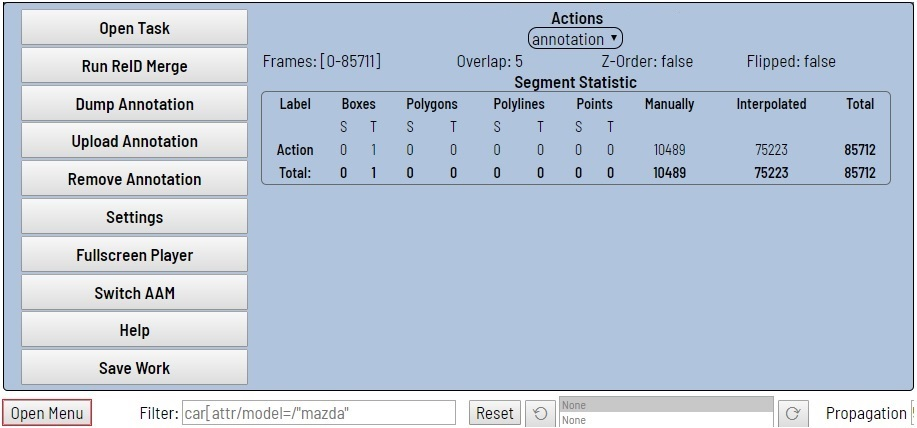
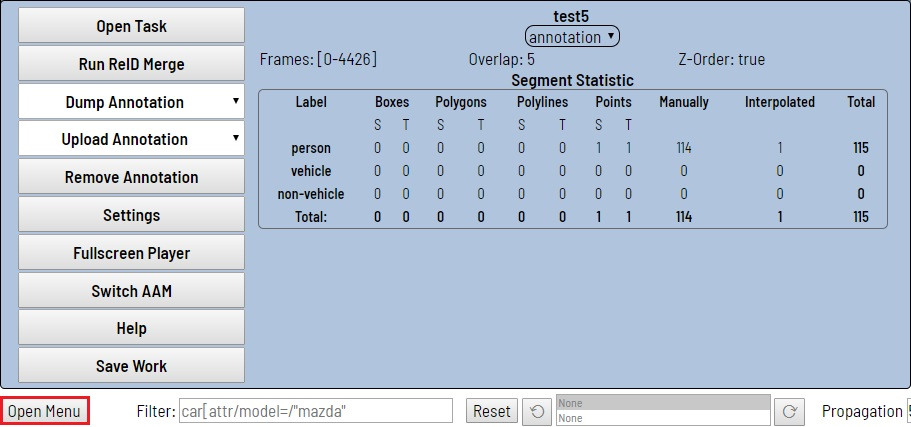
CVAT documentation v5 (#662)
* Updated images & gifs
* Updated User's Guide

diff --git a/cvat/apps/documentation/user_guide.md b/cvat/apps/documentation/user_guide.md
@@ -29,6 +29,7 @@
   - [Annotation with polylines](#annotation-with-polylines)
   - [Annotation with points](#annotation-with-points)
   - [Annotation with Auto Segmentation](#annotation-with-auto-segmentation)
+  - [Auto annotation](#auto-annotation)
   - [Shape grouping](#shape-grouping)
   - [Filter](#filter)
   - [Analytics](#analytics)
@@ -135,7 +136,9 @@ Go to the [Django administration panel](http://localhost:8080/admin). There you 
     **Use LFS**. If the annotation file is large, you can create a repository with
     [LFS](https://git-lfs.github.com/) support.
 
-    **Source**. To create huge tasks please use ``shared`` server directory (choose ``Share`` option in the dialog).
+    **Source**. Choose "Local" if you want to use files from your PC.
+    Choose the "Remote" option if you want to use a one url-adress or a list.
+    To create huge tasks please use shared server directory (choose "Share"). 
 
     **Z-Order**. Defines the order on drawn polygons. Check the box for enable layered displaying.
 
@@ -169,18 +172,36 @@ Go to the [Django administration panel](http://localhost:8080/admin). There you 
     The option helps to load high resolution datasets faster.
     Use the value from ``1`` (completely compressed images) to ``95`` (almost not compressed images).
 
-    **Select files**. Push this button to select files you want to annotate.
+    **Frame Filter**. Use this option to filter video frames.
+    For example, enter ``step=25`` to leave every twenty fifth frame in the video. Use this option on video files only.
+
+    **Select files or URL list**. If you select `` Remote`` in `` Source``, you'll see a field where you can enter
+    a list of URLs (one URL per line).
+    Press `` Local`` or `` Share`` in the `` source`` field to choose some files
+    for anotation from your local PC or a network folder respectively.
 
     Push ``Submit`` button and it will be added into the list of annotation tasks.
-    Then, the created task will be displayed on dashboard:
+    Then, the created task will be displayed on a dashboard:
 
-    ![](static/documentation/images/image006.jpg)
+    ![](static/documentation/images/image006_DETRAC.jpg)
 
 1.  The Dashboard contains elements and each of them relates to a separate task. They are sorted in creation order.
     Each element contains: task name, preview, execution status, buttons, and one or more links.
     Each button is responsible for a specific function:
-    - ``Dump Annotation`` — download an annotation file from the task (xml format)
-    - ``Upload Annotation`` — upload an annotation file to the task (xml format)
+    - ``Dump Annotation`` — download an annotation file from a task. Several formats are available:
+      - [CVAT XML 1.1 for video](/cvat/apps/documentation/xml_format.md#interpolation)
+      is highlighted if a task has the interpolation mode 
+      - [CVAT XML 1.1 for images](/cvat/apps/documentation/xml_format.md#annotation)
+      is highlighted if a task has the annotation mode 
+      - [PASCAL VOC ZIP 1.0](http://host.robots.ox.ac.uk/pascal/VOC/)
+      - [YOLO ZIP 1.0](https://pjreddie.com/darknet/yolo/)
+      - [COCO JSON 1.0](http://cocodataset.org/#format-data)
+      - ``MASK ZIP 1.0`` — archive contains a mask of each frame in the png format and a text file
+      with the value of each color
+      - [TFRecord ZIP 1.0](https://www.tensorflow.org/tutorials/load_data/tf_records)
+    - ``Upload annotation`` is possible in same format as ``Dump annotation``, with exception of ``MASK ZIP 1.0``
+      format and without choosing whether [CVAT XML 1.1](/cvat/apps/documentation/xml_format.md)
+      refers to an image or video.
     - ``Update Task`` — bring up "Update task" panel. It is used to edit or add labels line
     - ``Delete Task`` — delete the task
     - ``Git Repository Sync`` — sync annotation with the dataset repository.
@@ -216,15 +237,28 @@ You can "register" a model and "use" it after that to pre annotate your tasks.
 
 The model manager allows you to manage your deep learning (DL) models uploaded for auto annotation.
 Using the functionality you can upload, update or delete a specific DL model.
-Use "Auto annotation" button to pre annotate a task using one of your DL models. [Read more](/cvat/apps/auto_annotation)
+Use "Auto annotation" button to pre annotate a task using one of your DL models.
+[Read more](/cvat/apps/auto_annotation)
 
 ![](static/documentation/images/image104.jpg)
 
 ### Search
 
 There are several options how to use the search.
-It may be task's name, mode (annotation or interpolation), owner (username), assignee (username),
-status (annotation, validation, completed), id.
+
+- Search within all fields (owner, assignee, task name, task status, task mode).
+To execute enter a search string in search field.
+- Search for specific fields. How to perform:
+  - ``owner: admin`` - all tasks created by the user who has the substring "admin" in his name
+  - ``assignee: employee``  - all tasks which are assigned to a user who has the substring "employee" in his name
+  - ``name: mighty`` - all tasks with the substring "mighty" in their names
+  - ``mode: annotation`` or ``mode: interpolation`` - all tasks with images or videos.
+  - ``status: annotation`` or ``status: validation`` or ``status: completed``  - search by status
+  - ``id: 5`` - task with id = 5.
+- Multiple filters. Filters can be combined (except for the identifier) using the keyword `` AND``:
+  - ``mode: interpolation AND owner: admin``
+  - ``mode: annotation and status: annotation``
+
 The search is case insensitive.
 
 ![](static/documentation/images/image100.jpg)
@@ -274,7 +308,7 @@ And there is how they all look like:
 ![](static/documentation/images/image038.jpg "Box") ![](static/documentation/images/image033.jpg "Polygon")
 
 ![](static/documentation/images/image009.jpg "Polyline") ![](static/documentation/images/image010.jpg "Points")
-![](static/documentation/images/gif009.gif "Auto Segmentation")
+![](static/documentation/images/gif009_DETRAC.gif "Auto Segmentation")
 
 ### Annotation mode (basics)
 Usage examples:
@@ -324,7 +358,7 @@ Usage examples:
     - Annotate a bounding box on the first frame for the object.
     - In ``Interpolation`` mode the bounding box will be interpolated on next frames automatically.
 
-    ![](static/documentation/images/image015.jpg)
+    ![](static/documentation/images/image015_DETRAC.jpg)
 
 1.  If the object starts to change its position, you need to modify bounding
     boxes where it happens. It isn't necessary to change bounding boxes on each
@@ -337,7 +371,7 @@ Usage examples:
 
     -   Let's jump 30 frames forward and adjust boundaries of the object.
 
-        ![](static/documentation/images/image017.jpg)
+        ![](static/documentation/images/image017_DETRAC.jpg)
 
     -   After that, bounding boxes of the object between 630 and 660 frames
         will be changed automatically. For example, frame #645 looks like on the figure below:
@@ -403,18 +437,31 @@ Usage examples:
 ### Downloading annotations
 
 1.  To download the latest annotations, you have to save all changes first.
-    Press ``Open Menu`` and then ``Save Work`` button. There is ``Ctrl+S``
-    shortcut to save annotations quickly.
+    To do this, click ``Open Menu`` button. 
 
-1.  After that, press ``Open Menu`` and then ``Dump Annotation`` button.
+1.  After that, press ``Save Work`` button. There is ``Ctrl+S``
+    shortcut to save annotations quickly.
 
     ![](static/documentation/images/image028.jpg)
 
-1.  The annotation will be written into **.xml** file. To find the annotation
-    file, you should go to the directory where your browser saves downloaded
-    files by default. For more information visit [xml format page](/cvat/apps/documentation/xml_format.md).
+1.  After that, press ``Dump Annotation`` button.
 
-    ![](static/documentation/images/image029.jpg)
+    ![](static/documentation/images/image118.jpg)
+
+1.  Choose format dump annotation file. Dump annotation are available in several formats:
+    - [CVAT XML 1.1 for video](/cvat/apps/documentation/xml_format.md#interpolation)
+    is highlighted if a task has the interpolation mode
+    - [CVAT XML 1.1 for images](/cvat/apps/documentation/xml_format.md#annotation)
+    is highlighted if a task has the annotation mode
+
+    ![](static/documentation/images/image029.jpg "Example XML format") 
+
+    - [PASCAL VOC ZIP 1.0](http://host.robots.ox.ac.uk/pascal/VOC/)
+    - [YOLO ZIP 1.0](https://pjreddie.com/darknet/yolo/)
+    - [COCO JSON 1.0](http://cocodataset.org/#format-data)
+    - ``MASK ZIP 1.0`` — archive contains a mask of each frame in the png format and a text file with
+    the value of each color
+    - [TFRecord ZIP 1.0](https://www.tensorflow.org/tutorials/load_data/tf_records) 
 
 ### Task synchronization with a repository
 
@@ -900,6 +947,8 @@ automatically. You can adjust the polyline after it has been drawn.
 
 ## Annotation with points
 
+### Points in annotation mode
+
 It is used for face landmarks annotation etc.
 
 Before starting, you have to be sure that ``Points`` is selected.
@@ -920,6 +969,32 @@ You can add/delete points after finishing.
 
 ![](static/documentation/images/image063.jpg)
 
+### Linear interpolation with one point
+
+You can use linear interpolation for points to annotate a moving object:
+
+1.  Before starting, you have to be sure that ``Points`` is selected. 
+1.  Linear interpolation works only with one point, so you need to set ``Poly Shapes Size``: 1. 
+1.  After that select the interpolation mode.
+    
+    ![](static/documentation/images/image122.jpg)
+
+1.  Press ``N`` or click ``Create Shape`` for entering drawing mode.
+    Click LMB to create a point and shape will be automatically completed. 
+
+    ![](static/documentation/images/gif011_DETRAC.gif)
+
+1.  Move forward a few frames and move the point to the desired position,
+    this way you will create a keyframe and intermediate frames will be drawn automatically.
+    You can work with this object as with an interpolated track: hide with help of ``Outside``,
+    move around keyframes, etc.
+
+    ![](static/documentation/images/gif012_DETRAC.gif)
+
+1.  This way you'll get linear interpolation using `` Points``.
+
+    ![](static/documentation/images/gif013_DETRAC.gif)
+
 ## Annotation with Auto Segmentation
 
 Used to create a polygon semi-automatically. Before starting, you have to be
@@ -935,7 +1010,54 @@ in/out (when scrolling the mouse wheel) and move (when clicking the mouse
 wheel and moving the mouse) while drawing. At the end of Auto Segmentation,
 a shape is created and you can work with it as a polygon.
 
-![](static/documentation/images/gif009.gif)
+![](static/documentation/images/gif009_DETRAC.gif)
+
+## Auto annotation
+
+1.  First you need to upload deep learning (DL) models using model manager.
+    Only models in OpenVINO™ toolkit format are supported.
+    If you would like to annotate a task with a custom model please convert it
+    to the intermediate representation (IR) format via the model optimizer tool.
+    See [OpenVINO documentation](https://software.intel.com/en-us/articles/OpenVINO-InferEngine) for details.
+
+    ![](static/documentation/images/image099.jpg)
+
+1.  Enter model name, and select model file using "Select files" button. To annotate a task with a custom model
+    you need to prepare 4 files:
+    - ``Model config`` (*.xml) - a text file with network configuration. 
+    - ``Model weights`` (*.bin) - a binary file with trained weights. 
+    - ``Label map`` (*.json) - a simple json file with label_map dictionary like an object with 
+    string values for label numbers.
+    - ``Interpretation script`` (*.py) - a file used to convert net output layer to a predefined structure 
+    which can be processed by CVAT. 
+    More about creating model files can be found [here](/cvat/apps/auto_annotation).
+
+    ![](static/documentation/images/image104.jpg)
+
+1.  After downloading a model you have to  create a task or find an already created one and
+    click ``Run Auto Annotation`` button.
+
+    ![](static/documentation/images/image119.jpg)
+
+1.  In dialog window select a model you need. If it's necessary select the ``Delete current annotation`` checkbox.
+    Adjust the labels so that the task labels will correspond to the labels of the DL model.
+    Click ``Start`` to begin the auto annotatiton process.
+
+    ![](static/documentation/images/image120.jpg)
+
+1.  At runtime, you can see percentage of completion. You can also cancel the auto annotation
+    process by clicking ``Cancel Auto Annotation``
+
+    ![](static/documentation/images/image121.jpg)
+
+1.  As a result, you will get an annotation with separate bounding boxes (or other shapes)
+
+    ![](static/documentation/images/gif014_DETRAC.gif)
+
+1.  Separated bounding boxes can be edited by removing false positives, adding unlabeled objects, and
+    merging into tracks using ``Merge Shape``
+
+    ![](static/documentation/images/gif015_DETRAC.gif)
 
 ## Shape grouping
 
@@ -983,7 +1105,7 @@ In the trivial case, the correct filter must match the template: ``label[prop op
 ``prop`` is a property which should be filtered. The following items are available:
 
 - ``id`` — identifier of an object. It helps to find a specific object easily
-in case of huge number of objects and static/documentation/images/frames.
+in case of huge number of objects and images or frames.
 - ``type`` — an annotation type. Possible values: ``annotation``, ``interpolation``
 - ``lock`` accepts ``true`` and ``false`` values. It can be used to hide all locked objects.
 - ``occluded`` accepts ``true`` and ``false`` values. It can be used to hide all occluded objects.
